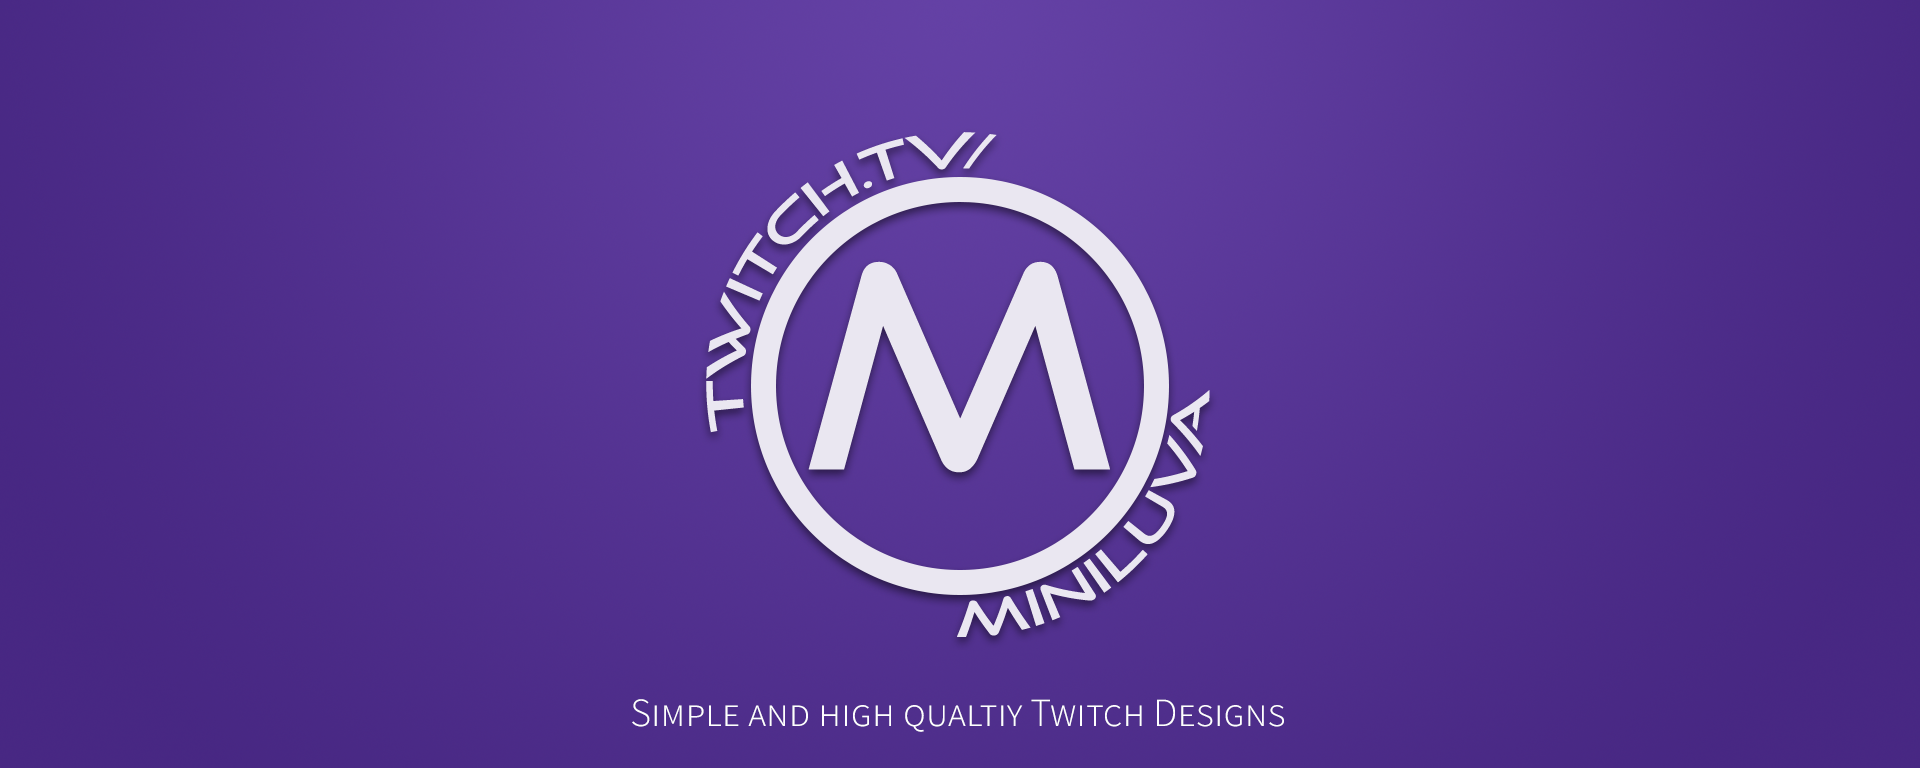
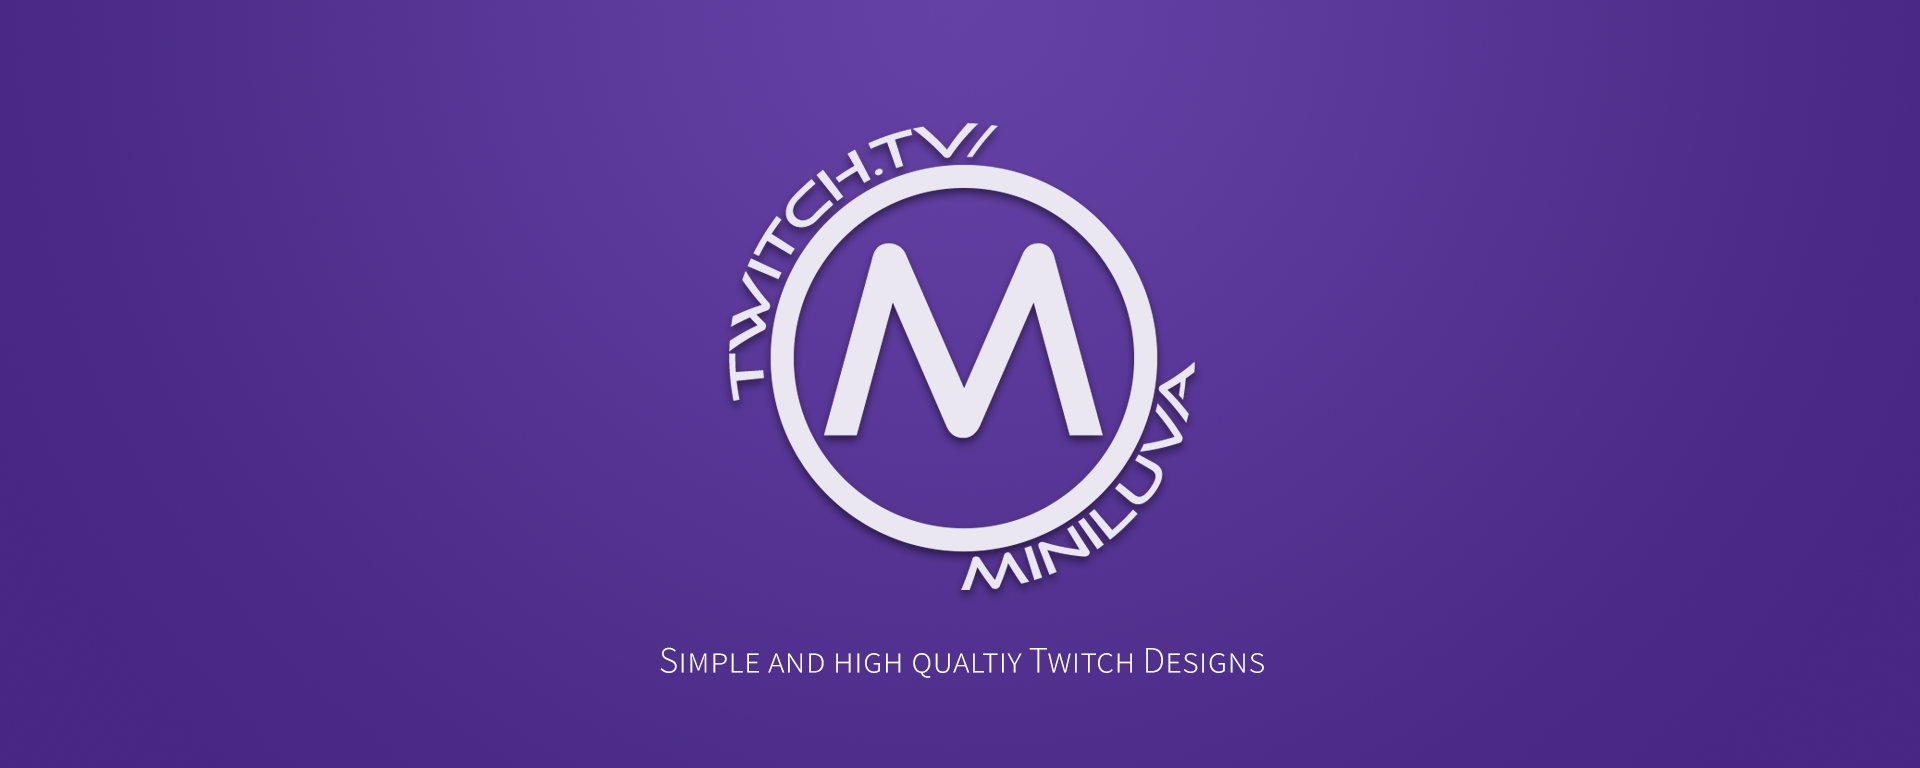
0.13

Changed region(s): [[0.3438, 0.1562, 0.6562, 0.875], [0.3125, 0.9062, 0.6562, 0.9375]]

diff --git a/index.html b/index.html
@@ -75,10 +75,10 @@
 					<section id="top" class="one dark cover">
 						<div class="container">
 
-							<header>
+							<!-- <header>
 								<h2 class="alt"><strong>Miniluva</strong></h2>
 								<p>Simple and high quality Twitch designs!</p>
-							</header>
+							</header> -->
 
 							<!-- <footer>
 								<a href="#portfolio" class="button scrolly">Portfolio</a>
